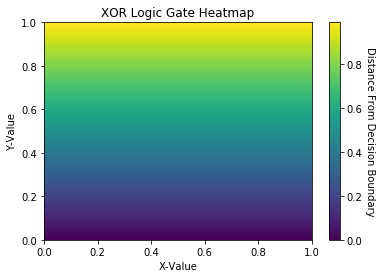
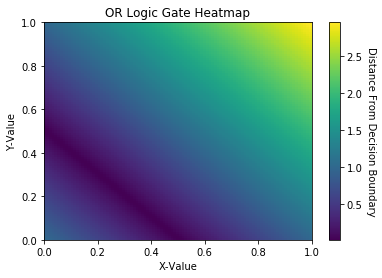
perceptron

diff --git a/_posts/2019-02-09-perceptron.md b/_posts/2019-02-09-perceptron.md
@@ -1,40 +1,52 @@
 ---
-title: "Machine Learning Project: Perceptron Logic Gates"
+title: "ML Project: Perceptron Logic Gates"
 date: 2019-02-09
-tags: [machine learning, data science]
+tags: [machine learning, data science, neural networks]
 #header:
   # image: "images/perceptron/neuron.png"
 excerpt: "Visualization of Perceptron Logic Gates using sklearn and matplotlib"
 mathjax: "true"
 classes: wide
-
 ---
 
-# Project: Visualization of Perceptron Logic Gates
+# Visualization of Perceptron Logic Gates
 
-In this project, I will use perceptrons to model the fundamental building blocks of computers — logic gates. Specifically, I will show how a perceptron can be used as a *linear classifier* by visualizing the *decision boundary* of particular set of data. In this case, I will show how:
-* AND, OR logic gates can represent linearly separable data
-* a XOR logic gate can represent data that is not linearly separable
+# 1 Introduction
+
+I will use perceptrons to model the fundamental building blocks of computers — logic gates. This project will focus on AND, OR, and XOR Logic Gates and use the data from their respective truth tables.
 
 <img src="{{ site.url }}{{ site.baseurl }}/images/perceptron/logicgate.png" alt="logic gates">
 
+### 1.1 Goal:
+* **Demonstrate how a perceptron model can be used as a *linear classifier tool***
 
-## Imports
+### 1.2 Approach:
+* **Visualize the respective *decision boundary* of each logic gate**
+    * Demonstrate how AND, OR gates can represent *linearly separable data*
+    * Demonstrate how a XOR gate can represent *non-linearly-separable data*
 
-In this project, we will use the following libraries and settings:
+### 1.3 Imports
+Import libraries and write settings here.
 
 
 ```python
-from sklearn.linear_model import Perceptron
-%matplotlib inline
-import matplotlib.pyplot as plt
+# Data manipulation
 import numpy as np
 from itertools import product
+
+# Machine Learning
+from sklearn.linear_model import Perceptron
+
+# Visualizations
+%matplotlib inline
+import matplotlib.pyplot as plt
 ```
 
-## Create Data Points
+# 2 Analysis/Modeling
 
-First, let's look at the `A` and `B` columns of our truth table. We can think of each column as a single input, and we can combine these two inputs to create a set of four points.
+### 2.0.1 Create Data Points
+
+First, let's look at the `A` and `B` columns of our `truth table`. We can think of each column as a single input, and we can combine these two inputs to create a set of four points.
 
 
 ```python
@@ -42,9 +54,9 @@ First, let's look at the `A` and `B` columns of our truth table. We can think of
 data = [[0,0], [0,1], [1,0], [1,1]]
 ```
 
-## Create Labels
+### 2.0.2 Create Labels
 
-We will find the labels for our AND, OR, and XOR logic gates under its corresponding `X` column. Let's create a list of labels for each gate.
+We will find the labels for our AND, OR, and XOR logic gates under its corresponding `X` column in the `truth table`. Let's create a list of labels for each gate.
 
 
 ```python
@@ -54,7 +66,7 @@ ORlabels = [0, 1, 1, 1]
 XORlabels = [0, 1, 1, 0]
 ```
 
-## Data Visualization Pt. 1: Labeled Scatterplots
+### 2.0.3 Data Visualization Pt. 1: Labeled Scatterplots
 
 Before can create a scatterplot, we need to break down our `data` into its x and y values. We can do this with a list comprehension. Then, we can plot our `x_values` and `y_values` on three different scatterplots, colorizing differences between the three gates.
 
@@ -86,18 +98,22 @@ plt.show()
 ```
 
 
-![png](/images/perceptron/output_10_0.png)
+![png](/images/perceptron/output_11_0.png)
 
 
-In the context of our logic gate problem, "linearly separable" means that a straight line, formally known as `decision boundary`, could be drawn somewhere on our scatterplot that would entirely separate the colored dots.
+### 2.0.4 Results & Discussion
 
-Take a look at the illustration below. Using the eyeball test, we can guess that our decision boundary is somewhere close to the drawn red lines.
+Each scatterplot displays 4 points, and each point represents a specific color.
 
-A line can be drawn on the AND, OR graphs indicating that these logic gates are linearly separable. This line cannot be drawn on the XOR graph, indicating that the XOR logic gate is not linearly separable.
+In the context of these scatterplots, we can think of a "decision boundary" as a "straight line separating the two colors." In other words, if a straight line can be drawn across a scatterplot where only a single color remains on either side of the line, then we can conclude that the data is *linearly separable*.
 
 <img src="{{ site.url }}{{ site.baseurl }}/images/perceptron/3_logic_gates_edit.png" alt="3 logic gates">
 
-## Create the Perceptron Model
+The drawn red line is an estimation of where the *decision boundary* should be located.
+
+A line can be successfully drawn on the AND, OR graphs indicating that these logic gates are linearly separable. This line cannot be drawn on the XOR graph, indicating that the XOR logic gate is not linearly separable.
+
+### 2.1.0 Create the Perceptron Model
 
 Using our data and labels, let's build a perceptron to learn AND, OR, and XOR.
 
@@ -107,7 +123,7 @@ Using our data and labels, let's build a perceptron to learn AND, OR, and XOR.
 classifier = Perceptron(max_iter=40, tol=1e-3)
 ```
 
-## Train and Evaluate Model
+### 2.1.1 Train and Evaluate Model
 
 Normally, we wouldn't train and test our model on the same dataset. However, in our scenario there are only four possible inputs to each gate, so we're stuck training on every possible input and testing on those same points.
 
@@ -134,20 +150,21 @@ print(classifier.score(data, XORlabels))
     0.5
 
 
+### 2.1.2 Results & Discussion
+
 The AND & OR logic gates both had an output score of `1.0` which indicates that 100% of the time the model was able to correctly determine output given data. Thus, these two gates are linearly seperable; in other words, a decision boundary exists.
 
 The XOR logic gates had an output score of `0.5` which indicates that only 50% of the time the model was able to correctly determine output given data. Thus, XOR is not linearly seperable; in other words, a decision boundary does not exist.
 
-## Data Visualization Pt. 2: Decision Boundary Heatmaps
+### 2.2.0 The Decision Function
 
 We can use the `.decision_function` method to calculate the distance between a particular point and the decision boundary of a dataset. For example:
 
 
 ```python
-#decision fucntion can tell us the proximity of a particular point from the decision boundary
+#decision function can tell us the proximity of a particular point from the decision boundary
 #example:
 print(classifier.decision_function([[0, 0], [1, 1], [0.5, 0.5]]))
-#output of [ 0.  -1.  -0.5] tells us that points [0, 0], [1, 1], [0.5, 0.5] are 0, -1.0, and-0.5 units away from XOR decision boundary
 ```
 
     [ 0.  -1.  -0.5]
@@ -155,11 +172,13 @@ print(classifier.decision_function([[0, 0], [1, 1], [0.5, 0.5]]))
 
 In this example, `decision_function` tells us that points `[0, 0], [1, 1], [0.5, 0.5]` are `0, -1.0, and -0.5` units away from XOR decision boundary.
 
-Let's use the capability of the `decision_fucntion` to create a heatmap for each logic gate. Each heatmap will contain 100 equidistant, ordered pairs and their respective distances from the decision boundary.
+### 2.3.0 Data Visualization Pt. 2: Decision Boundary Heatmaps
+
+Let's use the capability of the `decision_function` to create a heatmap for each logic gate. Each heatmap will contain 100 equidistant, ordered pairs and their respective distances from the decision boundary.
 
 
 ```python
-#use decision_function method to create a heatmap containing 100 equidistant, ordered pairs and their respective distances from the decision boundary
+#create 100 equidistant, ordered pairs
 x_values = np.linspace(0, 1, 100)
 y_values = np.linspace(0, 1, 100)
 point_grid = list(product(x_values, y_values))
@@ -183,7 +202,7 @@ plt.show()
 ```
 
 
-![png](/images/perceptron/output_23_0.png)
+![png](/images/perceptron/output_24_0.png)
 
 
 
@@ -204,7 +223,7 @@ plt.show()
 ```
 
 
-![png](/images/perceptron/output_24_0.png)
+![png](/images/perceptron/output_25_0.png)
 
 
 
@@ -225,16 +244,15 @@ plt.show()
 ```
 
 
-![png](/images/perceptron/output_25_0.png)
+![png](/images/perceptron/output_26_0.png)
 
 
-## Analysis
+### 2.3.1 Results & Discussion
 
 The deep purple region of the AND & OR logic gate heatmap represents its respective decision boundary.
-
 In the XOR heatmap, the deep purple region is unable to seperate data into 2 distinct regions. Thus, the XOR heatmap illustrates data that is not linearly seperable.
 
-## Conclusion
+# 3 Conclusions and Next Steps
 
 A single perceptron with only two inputs can only solve problems that are linearly seperable because it cannot represent a non-linear decision boundary.
 
